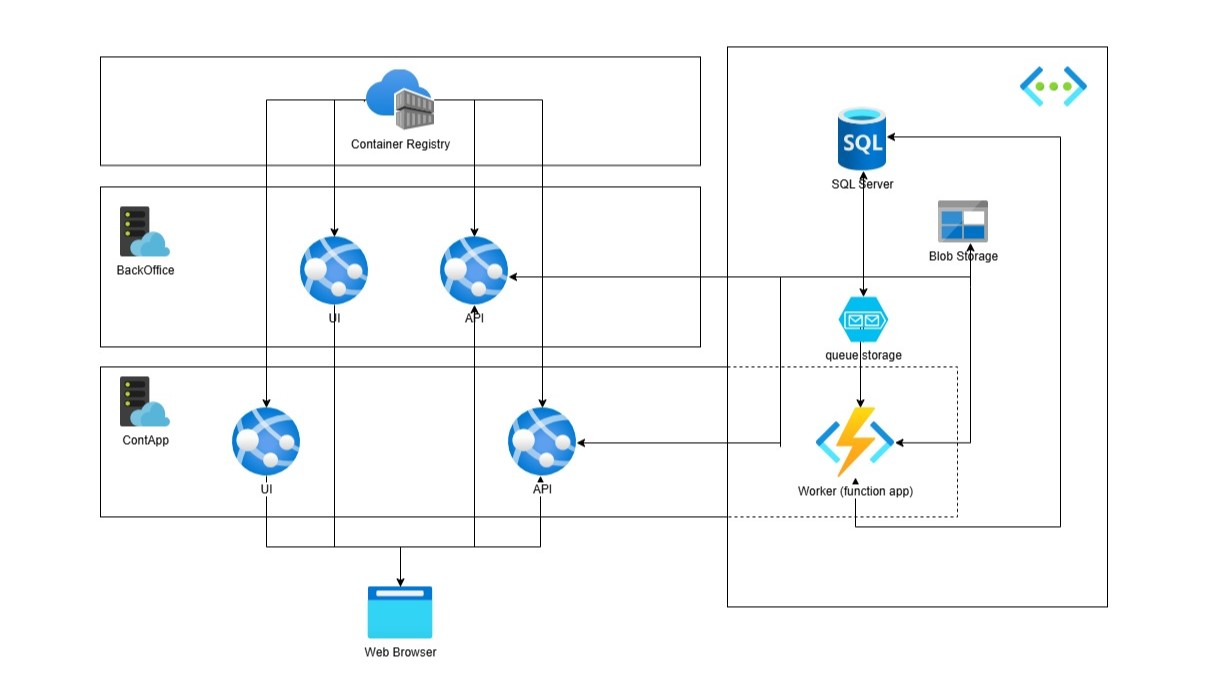
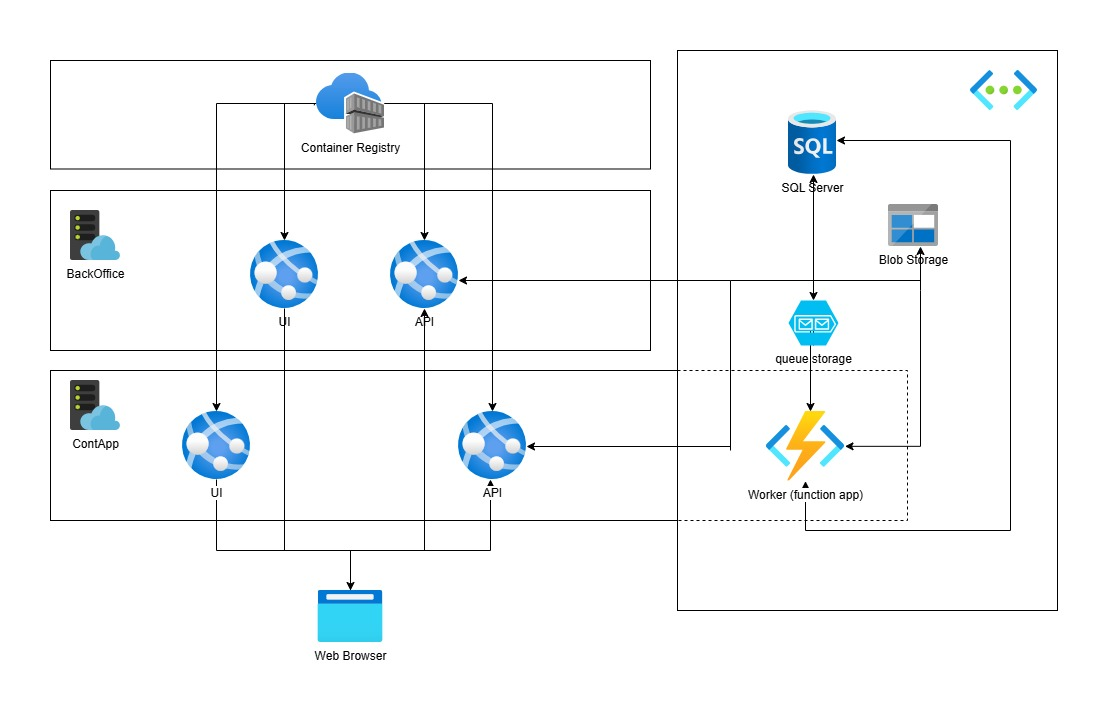
redimension de la imagen

diff --git a/src/data/stack.ts b/src/data/stack.ts
@@ -9,8 +9,9 @@ export const stack = [
     {name:'MySql', icon:"/stack/mysql.svg" },
     {name:'SQLServer', icon:"/stack/sqlserver.svg" },
     {name:'SQLDeveloper', icon:"/stack/sqldeveloper.svg" },
+    {name:'Terraform', icon:"/stack/terraform.svg" },
+    {name:'Azure Cloud', icon:"/stack/azure.svg" },
     {name:'Figma', icon:"/stack/figma.svg" },
     {name:'Git', icon:"/stack/git.svg" },
-    {name:'GitHub', icon:"/stack/github.svg" },
    
 ]
